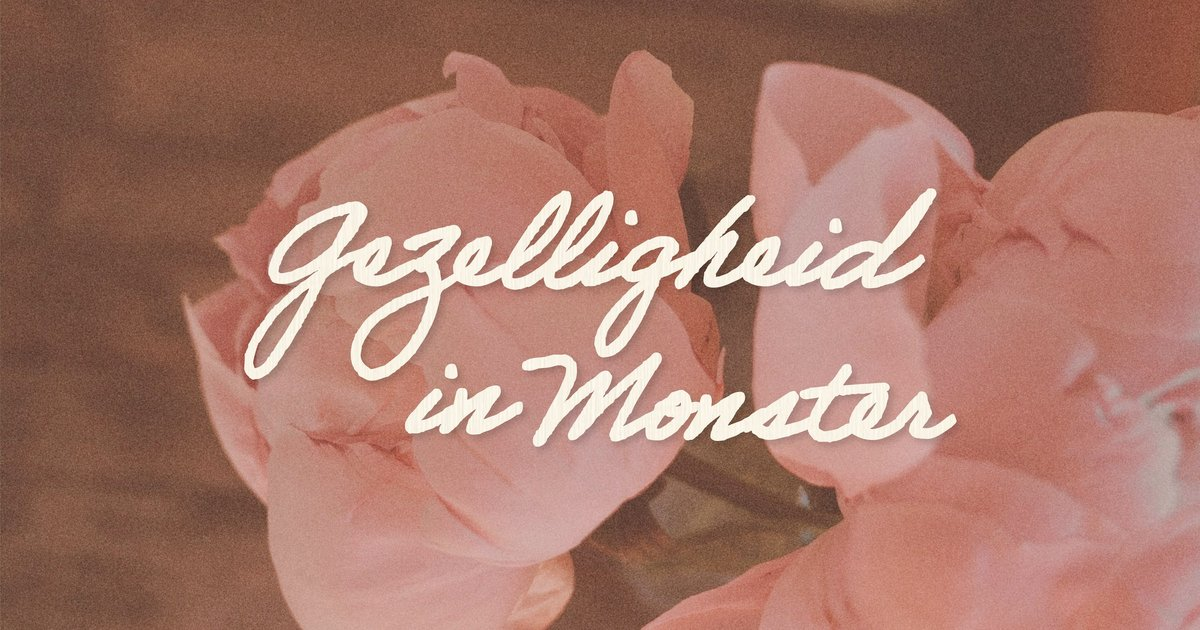
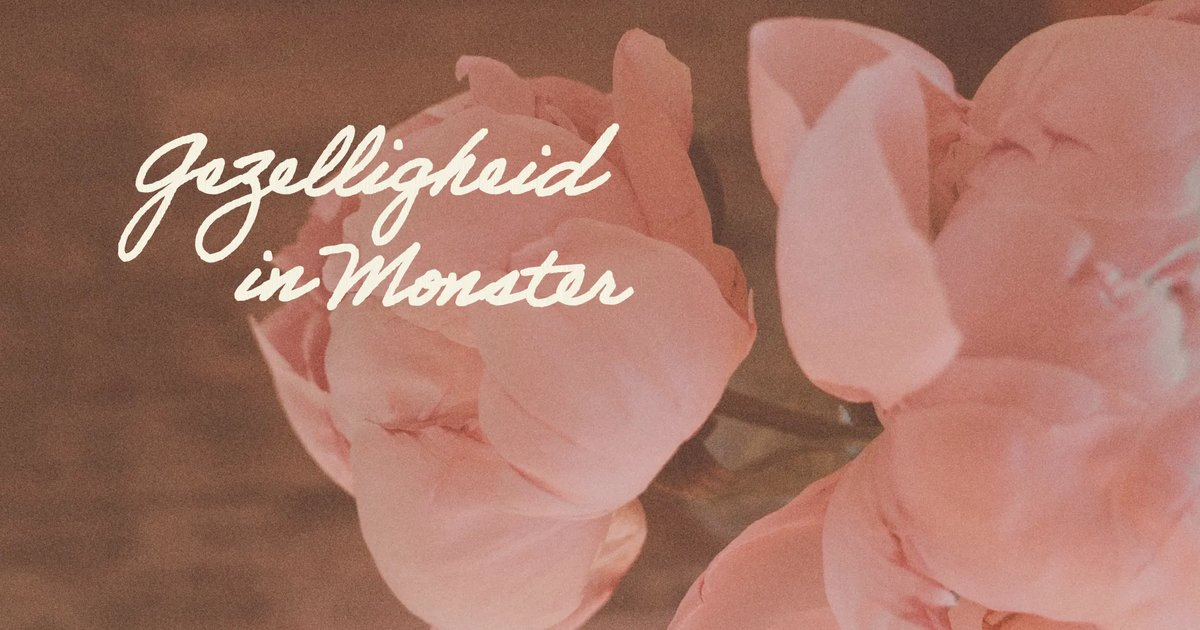
Nieuwe herofoto: tekst linksboven, meer pioenrozen in beeld; aangeleverde bestanden naar aanlevering/
Claude-Session: https://claude.ai/code/session_01M57zZywg3nBBRArBqQvFKQ

diff --git a/src/routes/index.tsx b/src/routes/index.tsx
@@ -97,14 +97,14 @@ function Hero() {
         {/* Eén <picture>: desktop de aangeleverde foto met tekst, mobiel de
             losse pioenrozen. Zo laadt de browser maar één van de twee. */}
         <picture>
-          <source media="(min-width: 768px)" srcSet={heroImg} width={2000} height={1126} />
+          <source media="(min-width: 768px)" srcSet={heroImg} width={2000} height={1125} />
           <img
             src={pioenrozen}
             alt="Roze pioenrozen met de tekst Gezelligheid in Monster"
             width={1100}
             height={1648}
             fetchPriority="high"
-            className="kenburns hero-foto absolute inset-y-0 right-0 h-full max-w-none object-cover object-[50%_35%] md:object-[50%_100%]"
+            className="kenburns hero-foto absolute inset-0 h-full w-full object-cover object-[50%_35%] md:object-[50%_40%]"
           />
         </picture>
         <div

diff --git a/src/styles.css b/src/styles.css
@@ -339,21 +339,10 @@
     }
   }
 
-  /* Herofoto: op desktop iets breder dan het scherm en rechts uitgelijnd,
-     zodat de tekst in de foto links van het groene vlak valt. Op brede,
-     lage schermen wordt de foto al verticaal bijgesneden en past hij zo. */
+  /* Herofoto: de tekst staat linksboven in de foto, dus gewoon bijsnijden
+     vanuit het midden; het groene vlak rechtsonder komt er niet overheen. */
   .hero-foto {
     width: 100%;
-  }
-  @media (min-width: 768px) {
-    .hero-foto {
-      width: 124%;
-    }
-  }
-  @media (min-width: 768px) and (min-aspect-ratio: 2/1) {
-    .hero-foto {
-      width: 100%;
-    }
   }
 
   .hero-tekst {
